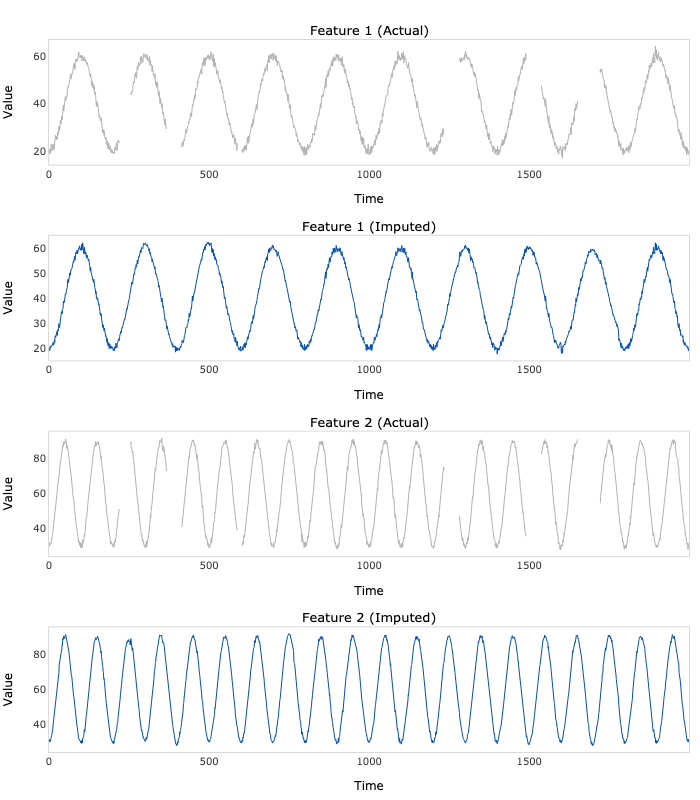
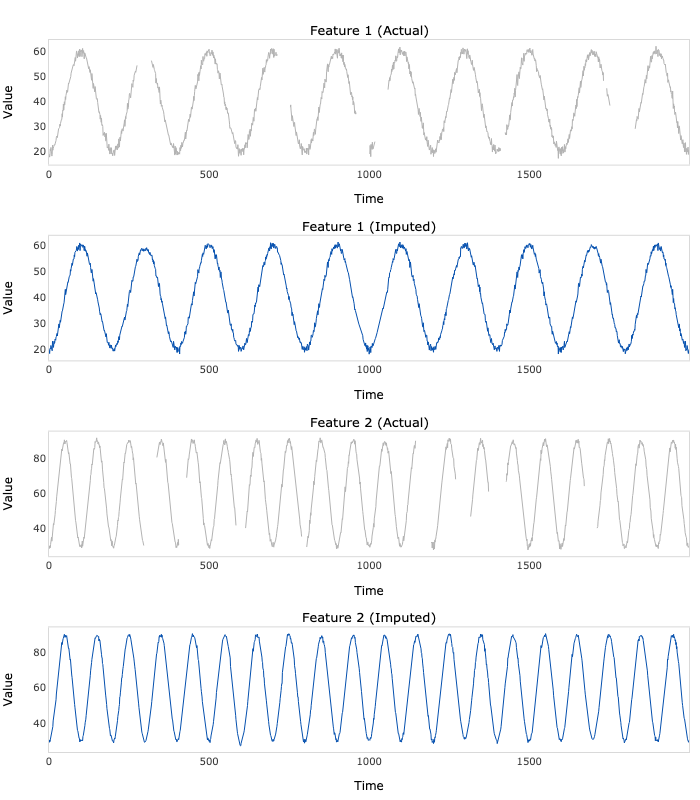
Initial commit

diff --git a/example/example.py b/example/example.py
@@ -1,7 +1,7 @@
 import numpy as np
 from brits_tensorflow.model import BRITS
 
-# Generate some time series
+# Generate two time series
 N = 2000
 t = np.linspace(0, 1, N)
 e = np.random.multivariate_normal(mean=np.zeros(2), cov=np.eye(2), size=N)
@@ -11,9 +11,10 @@ x = np.hstack([a.reshape(- 1, 1), b.reshape(- 1, 1)])
 
 # Add some missing values
 for i in range(10):
-    a = np.random.randint(low=200, high=N - 200)
-    b = np.random.randint(low=5, high=50)
-    x[a: a + b, :] = np.nan
+    a = np.random.randint(low=200, high=N - 200, size=2)
+    b = np.random.randint(low=5, high=50, size=2)
+    for j in range(2):
+        x[a[j]: a[j] + b[j], j] = np.nan
     
 # Fit the model
 model = BRITS(

diff --git a/README.MD b/README.MD
@@ -21,7 +21,7 @@ kaleido==0.2.1
 import numpy as np
 from brits_tensorflow.model import BRITS
 
-# Generate some time series
+# Generate two time series
 N = 2000
 t = np.linspace(0, 1, N)
 e = np.random.multivariate_normal(mean=np.zeros(2), cov=np.eye(2), size=N)
@@ -31,9 +31,10 @@ x = np.hstack([a.reshape(- 1, 1), b.reshape(- 1, 1)])
 
 # Add some missing values
 for i in range(10):
-    a = np.random.randint(low=200, high=N - 200)
-    b = np.random.randint(low=5, high=50)
-    x[a: a + b, :] = np.nan
+    a = np.random.randint(low=200, high=N - 200, size=2)
+    b = np.random.randint(low=5, high=50, size=2)
+    for j in range(2):
+        x[a[j]: a[j] + b[j], j] = np.nan
     
 # Fit the model
 model = BRITS(
